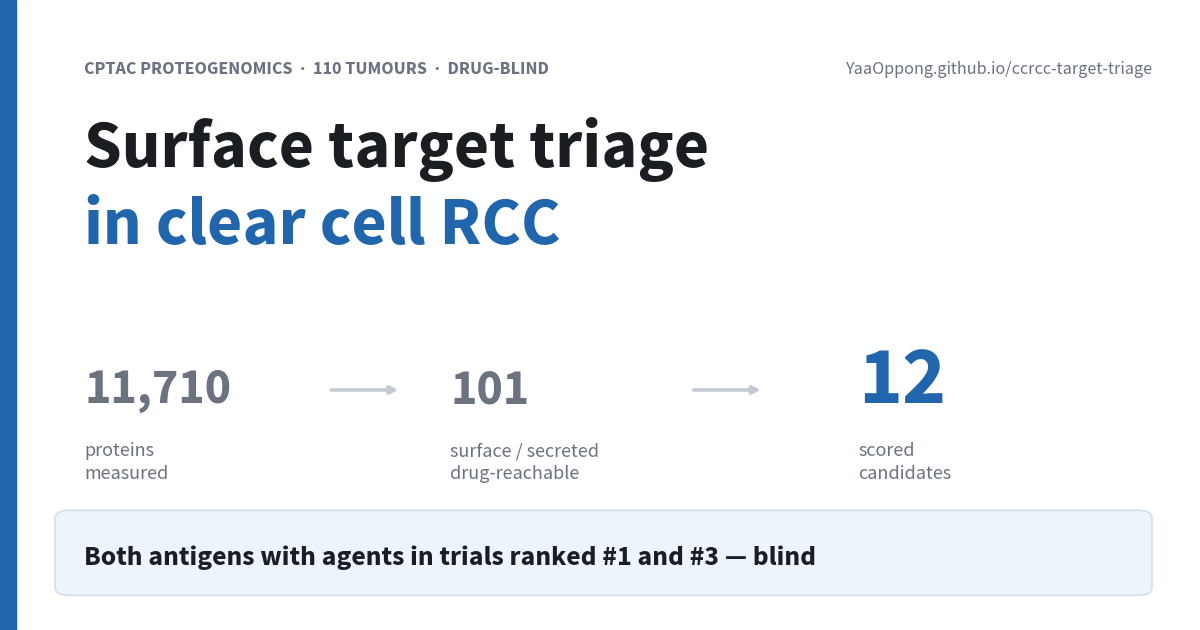
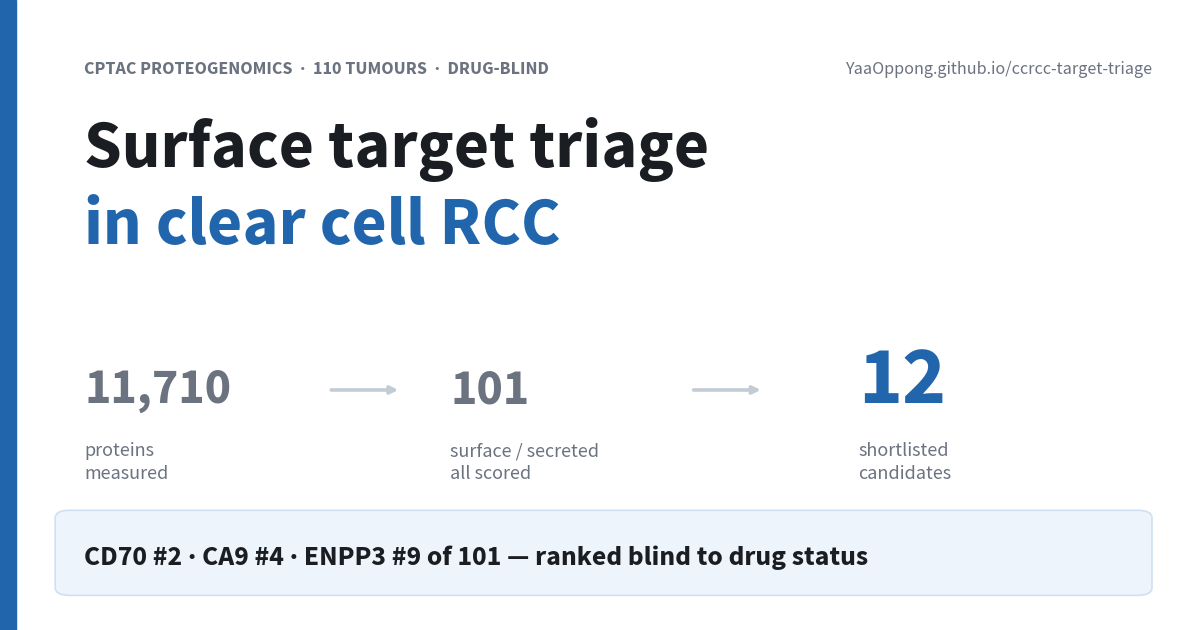
Update social preview card and Open Graph metadata to the corrected claims
The About text, the four meta tags and the preview card all still asserted "the
two with agents in trials rank #1 and #3" - wrong on three counts after the
recovery-test fix: the ranks are #2 and #4, the denominator is 101 rather than
12, and there are 14 held-out positives rather than two.

- make_og_card.py: funnel now reads 11,710 -> 101 (all scored) -> 12
  (shortlisted); footer states CD70 #2, CA9 #4, ENPP3 #9 of 101, ranked blind.
- index.html: description, og:description, twitter:description and og:image:alt
  rewritten to match. No p-value in any of them - the same reason the masthead
  carries none.
- Repo description updated via the API to the same wording.

Changed region(s): [[0.0617, 0.8444, 0.74, 0.9048], [0.37, 0.7238, 0.4933, 0.7841], [0.7092, 0.6937, 0.8017, 0.7238]]

diff --git a/index.html b/index.html
@@ -2,7 +2,7 @@
 <html lang="en"><head>
 <meta charset="utf-8"><meta name="viewport" content="width=device-width, initial-scale=1">
 <title>ccRCC Drug-Target Discovery — CPTAC</title>
-<meta name="description" content="Drug-blind, expression-driven triage of surface/secreted targets in clear cell RCC using CPTAC proteogenomics. 11,710 proteins narrowed to 12 scored candidates; the two with agents in trials rank #1 and #3.">
+<meta name="description" content="Drug-blind, expression-driven triage of surface/secreted targets in clear cell RCC using CPTAC proteogenomics. 11,710 proteins narrowed to a 12-candidate shortlist; all 101 surface candidates scored, with CD70, CA9 and ENPP3 at #2, #4 and #9 of 101.">
 
 <!-- Open Graph / social preview. Scrapers (LinkedIn, Slack, X) do not run JS and
      do not resolve relative paths, so every URL below must be absolute. -->
@@ -10,15 +10,15 @@
 <meta property="og:site_name" content="ccRCC Drug-Target Triage">
 <meta property="og:url" content="https://yaaoppong.github.io/ccrcc-target-triage/">
 <meta property="og:title" content="Drug-blind surface target triage in clear cell RCC">
-<meta property="og:description" content="CPTAC proteogenomics, 110 tumours. Protein/RNA concordance and a data-driven immune-decoy filter narrow 11,710 proteins to 12 scored candidates; the two with agents in trials rank #1 and #3.">
+<meta property="og:description" content="CPTAC proteogenomics, 110 tumours. Protein/RNA concordance and a data-driven immune-decoy filter narrow 11,710 proteins to a 12-candidate shortlist. All 101 surface candidates are scored: CD70, CA9 and ENPP3 rank #2, #4 and #9 of 101.">
 <meta property="og:image" content="https://yaaoppong.github.io/ccrcc-target-triage/figures/og_card.png">
 <meta property="og:image:type" content="image/png">
 <meta property="og:image:width" content="1200">
 <meta property="og:image:height" content="630">
-<meta property="og:image:alt" content="Funnel from 11,710 proteins measured to 101 surface/secreted drug-reachable to 12 scored candidates, with the note that both antigens with agents in trials ranked #1 and #3, blind.">
+<meta property="og:image:alt" content="Funnel from 11,710 proteins measured, to 101 surface/secreted candidates all scored, to a 12-candidate shortlist, with the note that CD70, CA9 and ENPP3 rank #2, #4 and #9 of 101, ranked blind to drug status.">
 <meta name="twitter:card" content="summary_large_image">
 <meta name="twitter:title" content="Drug-blind surface target triage in clear cell RCC">
-<meta name="twitter:description" content="CPTAC proteogenomics, 110 tumours. 11,710 proteins narrowed to 12 scored candidates; the two with agents in trials rank #1 and #3.">
+<meta name="twitter:description" content="CPTAC proteogenomics, 110 tumours. 11,710 proteins narrowed to a 12-candidate shortlist; all 101 surface candidates scored, CD70 #2, CA9 #4, ENPP3 #9 of 101.">
 <meta name="twitter:image" content="https://yaaoppong.github.io/ccrcc-target-triage/figures/og_card.png">
 <style>
 :root{--bg:#f7f8fa;--card:#fff;--ink:#1a1d21;--muted:#6b7280;--line:#e5e7eb;--accent:#2166ac;

diff --git a/code/make_og_card.py b/code/make_og_card.py
@@ -65,8 +65,8 @@ text(L, 0.612, "in clear cell RCC", 49, ACCENT, "bold")
 # Reading left to right IS the method; the arrows carry the narrowing. Spread
 # across the full measure so the row balances the headline above it.
 stages = [(0.070, "11,710", "proteins\nmeasured",                 36, MUTED),
-          (0.375, "101",    "surface / secreted\ndrug-reachable", 36, MUTED),
-          (0.715, "12",     "scored\ncandidates",                 60, ACCENT)]
+          (0.375, "101",    "surface / secreted\nall scored",     36, MUTED),
+          (0.715, "12",     "shortlisted\ncandidates",            60, ACCENT)]
 
 for x, num, cap, size, col in stages:
     text(x, 0.360, num, size, col, "bold")
@@ -85,7 +85,7 @@ ax.add_patch(FancyBboxPatch((L - 0.024, 0.055), (R - L) + 0.024, 0.135,
                             boxstyle="round,pad=0,rounding_size=0.012",
                             facecolor=TINT, edgecolor=TINTED,
                             linewidth=1.2, transform=ax.transAxes))
-text(L, 0.103, "Both antigens with agents in trials ranked #1 and #3 — blind",
+text(L, 0.103, "CD70 #2 · CA9 #4 · ENPP3 #9 of 101 — ranked blind to drug status",
      20, INK, "bold")
 
 fig.savefig("figures/og_card.png", dpi=DPI, facecolor=BG)
